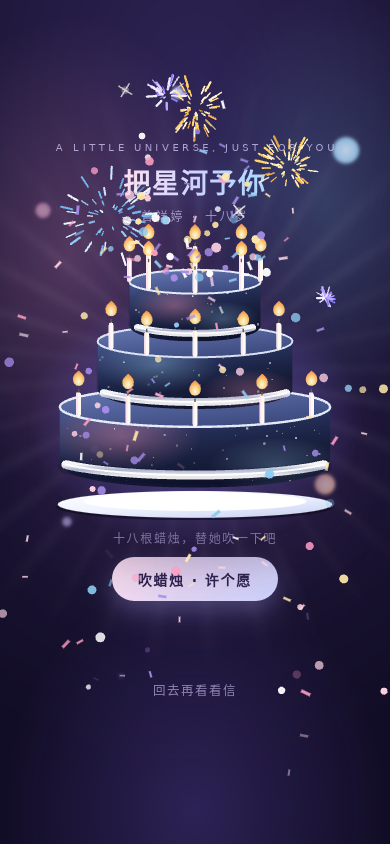
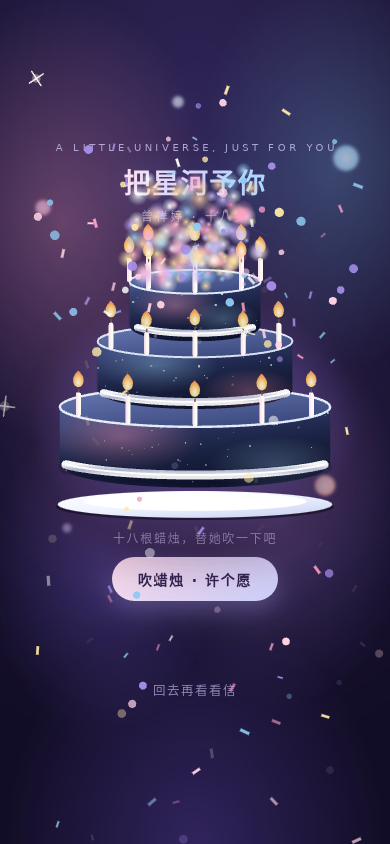
蛋糕页特效改为视频同款：光斑爆发+漂浮光斑+星点，去掉烟花/光芒

diff --git a/index.html b/index.html
@@ -71,9 +71,11 @@
   #cakeScene{z-index:3;background:radial-gradient(120% 80% at 50% 12%,#2e2456 0%,#1d1638 52%,#120d26 100%)}
   #cakeScene::before{content:"";position:absolute;inset:0;pointer-events:none;
     background:
-      radial-gradient(60% 40% at 18% 30%,rgba(255,158,196,.22),transparent 70%),
-      radial-gradient(50% 36% at 84% 24%,rgba(127,196,239,.20),transparent 70%),
-      radial-gradient(70% 40% at 50% 96%,rgba(140,110,255,.22),transparent 70%)}
+      radial-gradient(58% 38% at 16% 26%,rgba(255,158,196,.30),transparent 70%),
+      radial-gradient(52% 34% at 86% 20%,rgba(127,196,239,.26),transparent 70%),
+      radial-gradient(46% 30% at 72% 62%,rgba(180,140,255,.22),transparent 72%),
+      radial-gradient(40% 26% at 26% 68%,rgba(140,110,255,.26),transparent 72%),
+      radial-gradient(70% 40% at 50% 100%,rgba(120,90,220,.30),transparent 70%)}
   #cakeScene .inner{position:relative;z-index:1}
 
   /* ---------- 首屏 ---------- */
@@ -236,13 +238,6 @@
   .nb3{width:10px;height:10px;left:16%;top:62%;background:radial-gradient(circle,#efe6ff,#b8a6ff 62%,transparent 72%);animation:floaty 10s ease-in-out infinite .6s}
   .nb4{width:20px;height:20px;right:14%;top:58%;background:radial-gradient(circle,#ffe7d4,#ffb98a 62%,transparent 72%);animation:floaty 14s ease-in-out infinite 2s}
   .nb5{width:12px;height:12px;left:44%;top:12%;background:radial-gradient(circle,#ffffff,#cfe4ff 62%,transparent 72%);animation:floaty 11s ease-in-out infinite 1.6s}
-  .rays{position:absolute;left:50%;top:44%;width:min(160vw,760px);aspect-ratio:1;transform:translate(-50%,-50%);
-    background:repeating-conic-gradient(from 0deg at 50% 50%,rgba(255,235,246,.20) 0deg 2.2deg,rgba(255,255,255,0) 2.2deg 11deg);
-    filter:blur(3px);mix-blend-mode:screen;opacity:.38;pointer-events:none;
-    -webkit-mask-image:radial-gradient(circle,#000 0%,rgba(0,0,0,.65) 42%,transparent 68%);
-    mask-image:radial-gradient(circle,#000 0%,rgba(0,0,0,.65) 42%,transparent 68%);
-    animation:raysSpin 46s linear infinite}
-  @keyframes raysSpin{to{transform:translate(-50%,-50%) rotate(360deg)}}
   #cakeScene .cake-wrap{animation:cakeGlow 4.6s ease-in-out infinite}
   @keyframes cakeGlow{0%,100%{filter:drop-shadow(0 18px 30px rgba(120,90,255,.22))}50%{filter:drop-shadow(0 18px 42px rgba(255,150,210,.38))}}
   .shoot{position:absolute;width:110px;height:1.5px;border-radius:2px;pointer-events:none;
@@ -357,7 +352,6 @@
 
   <!-- ========== 三 · 星空蛋糕 ========== -->
   <section class="layer" id="cakeScene" aria-label="许愿蛋糕">
-    <span class="rays" aria-hidden="true"></span>
     <span class="shoot s1" aria-hidden="true"></span>
     <span class="shoot s2" aria-hidden="true"></span>
     <span class="night-bokeh nb1" aria-hidden="true"></span>
@@ -483,7 +477,7 @@
     ["#8fcbf2", "#cfe9ff", "#6fb6ee", "#eaf6ff"],
     ["#b8a6ff", "#e0d6ff", "#8b7bff", "#f3eeff"]
   ];
-  var BOKEH_COLORS = ["255,183,209", "169,216,245", "207,192,255", "255,233,168", "255,255,255"];
+  var BOKEH_COLORS = ["255,183,209", "169,216,245", "207,192,255", "255,233,168", "255,255,255", "255,214,170", "255,170,190"];
   var t0 = performance.now();
   var PETAL_COLORS = [
     "rgba(255,183,209,.95)", "rgba(255,211,227,.92)", "rgba(255,246,251,.95)",
@@ -522,7 +516,7 @@
     for (var i = 0; i < pn; i++) petals.push(makePetal(true));
     for (var j = 0; j < sn; j++) sparks.push(makeSpark(true));
     bokeh = [];
-    for (var b = 0; b < (reduce ? 6 : 16); b++) bokeh.push(makeBokeh(true));
+    for (var b = 0; b < (reduce ? 10 : 40); b++) bokeh.push(makeBokeh(true));
   }
   function drawPetal(p) {
     var sx = Math.cos(p.flip);
@@ -537,33 +531,40 @@
     ctx.fill();
     ctx.restore();
   }
+  var SPRITE = {};
+  function sprite(rgb) {
+    if (SPRITE[rgb]) return SPRITE[rgb];
+    var c = document.createElement("canvas");
+    c.width = c.height = 64;
+    var g = c.getContext("2d");
+    var grd = g.createRadialGradient(32, 32, 0, 32, 32, 32);
+    grd.addColorStop(0, "rgba(" + rgb + ",.95)");
+    grd.addColorStop(.42, "rgba(" + rgb + ",.5)");
+    grd.addColorStop(1, "rgba(" + rgb + ",0)");
+    g.fillStyle = grd;
+    g.beginPath(); g.arc(32, 32, 32, 0, 6.283); g.fill();
+    SPRITE[rgb] = c;
+    return c;
+  }
   function makeBokeh(initial) {
+    var big = Math.random() < .35;
     return {
-      x: rand(0, W), y: initial ? rand(0, H) : rand(H * .6, H),
-      r: rand(7, 30), vy: rand(-22, -6), vx: rand(-5, 5),
-      a: rand(.08, .26), c: BOKEH_COLORS[(Math.random() * BOKEH_COLORS.length) | 0]
+      x: rand(-30, W + 30), y: initial ? rand(0, H) : rand(H * .7, H + 40),
+      r: big ? rand(18, 46) : rand(5, 18),
+      vy: rand(-16, -4), vx: rand(-6, 6),
+      a: big ? rand(.10, .26) : rand(.18, .5),
+      c: BOKEH_COLORS[(Math.random() * BOKEH_COLORS.length) | 0]
     };
   }
   function bubbleBurst(cx, cy, n, power) {
-    var cols = ["255,183,209", "169,216,245", "207,192,255", "255,233,168", "255,255,255", "255,158,196"];
+    var cols = ["255,214,170", "255,233,168", "255,255,255", "255,183,209", "169,216,245", "207,192,255", "255,158,196"];
     for (var i = 0; i < n; i++) {
-      var a = -Math.PI / 2 + rand(-.95, .95), sp = rand(55, 180) * (power || 1);
+      var a = -Math.PI / 2 + rand(-1.1, 1.1), sp = rand(50, 190) * (power || 1);
       bubbles.push({
-        x: cx + rand(-34, 34), y: cy + rand(-10, 10),
-        vx: Math.cos(a) * sp * .5, vy: Math.sin(a) * sp,
-        r: rand(1.8, 6), c: cols[(Math.random() * cols.length) | 0],
-        life: rand(1.1, 2.2), total: 2.2
-      });
-    }
-  }
-  function firework(x, y, n, power) {
-    var pal = PAL[(Math.random() * PAL.length) | 0];
-    for (var i = 0; i < n; i++) {
-      var a = Math.random() * 6.283, sp = rand(50, 250) * (power || 1);
-      fwP.push({
-        x: x, y: y, px: x, py: y,
-        vx: Math.cos(a) * sp, vy: Math.sin(a) * sp - 30,
-        life: rand(.7, 1.5), c: pal[(Math.random() * pal.length) | 0], r: rand(1.1, 2.4)
+        x: cx + rand(-40, 40), y: cy + rand(-14, 14),
+        vx: Math.cos(a) * sp * .45, vy: Math.sin(a) * sp * .85,
+        r: rand(2.5, 13), c: cols[(Math.random() * cols.length) | 0],
+        life: rand(1.6, 3.2), total: 3.2
       });
     }
   }
@@ -580,17 +581,12 @@
     }
   }
   function drawBubble(b) {
-    var k = Math.max(0, Math.min(1, b.life / .9));
-    ctx.save();
-    ctx.globalAlpha = k * .7;
-    ctx.fillStyle = "rgba(" + b.c + ",.85)";
-    ctx.beginPath(); ctx.arc(b.x, b.y, b.r, 0, 6.283); ctx.fill();
-    ctx.globalAlpha = k * .22;
-    ctx.beginPath(); ctx.arc(b.x, b.y, b.r * 2.2, 0, 6.283); ctx.fill();
-    ctx.globalAlpha = k * .5;
-    ctx.fillStyle = "rgba(255,255,255,.9)";
-    ctx.beginPath(); ctx.arc(b.x - b.r * .3, b.y - b.r * .3, b.r * .32, 0, 6.283); ctx.fill();
-    ctx.restore();
+    var k = Math.max(0, Math.min(1, b.life / 1.1));
+    var sp = sprite(b.c), d = b.r * 2;
+    ctxTop.save();
+    ctxTop.globalAlpha = k * .9;
+    ctxTop.drawImage(sp, b.x - b.r, b.y - b.r, d, d);
+    ctxTop.restore();
   }
   function drawSpark(s, t) {
     var a = s.a * (.45 + .55 * Math.abs(Math.sin(t * s.tw + s.ph)));
@@ -613,12 +609,10 @@
           bk.y += bk.vy * dt; bk.x += bk.vx * dt;
           if (bk.y < -40) { bokeh[bi] = bk = makeBokeh(false); }
         }
+        var bs = sprite(bk.c), bd = bk.r * 2;
         ctx.save();
         ctx.globalAlpha = bk.a * night;
-        ctx.fillStyle = "rgba(" + bk.c + ",.9)";
-        ctx.beginPath(); ctx.arc(bk.x, bk.y, bk.r, 0, 6.283); ctx.fill();
-        ctx.globalAlpha = bk.a * night * .35;
-        ctx.beginPath(); ctx.arc(bk.x, bk.y, bk.r * 1.8, 0, 6.283); ctx.fill();
+        ctx.drawImage(bs, bk.x - bk.r, bk.y - bk.r, bd, bd);
         ctx.restore();
       }
     }
@@ -645,7 +639,6 @@
     }
     if (night > .05 && !reduce) {
       if (Math.random() < dt * .9) {
-        firework(rand(W * .12, W * .88), rand(H * .10, H * .42), 34, .9);
       }
       if (Math.random() < dt * 2.2) twinkle(rand(0, W), rand(H * .08, H * .55));
     }
@@ -993,10 +986,7 @@
       $("cakeHint").textContent = "十八岁，愿望会实现的";
       var r = $("cake").getBoundingClientRect();
       confetti(r.left + r.width / 2, r.top + r.height * .18, reduce ? 16 : 80);
-      bubbleBurst(r.left + r.width / 2, r.top + r.height * .18, reduce ? 18 : 90, 1.25);
-      firework(W * .24, H * .24, reduce ? 20 : 66, 1.15);
-      firework(W * .76, H * .19, reduce ? 20 : 66, 1.1);
-      setTimeout(function () { firework(W * .5, H * .12, reduce ? 18 : 58, 1); }, 320);
+      bubbleBurst(r.left + r.width / 2, r.top + r.height * .18, reduce ? 20 : 130, 1.3);
       goldRain(r.left + r.width / 2, r.top + r.height * .32, reduce ? 16 : 70);
       setTimeout(function () {
         confetti(r.left + r.width * .2, r.top + r.height * .26, reduce ? 10 : 34);
@@ -1027,10 +1017,7 @@
     setTimeout(function () {
       var r = c.getBoundingClientRect();
       confetti(r.left + r.width / 2, r.top + r.height * .2, reduce ? 10 : 36);
-      bubbleBurst(r.left + r.width / 2, r.top + r.height * .2, reduce ? 16 : 64, 1);
-      firework(W * .28, H * .26, reduce ? 20 : 60, 1.1);
-      setTimeout(function () { firework(W * .74, H * .2, reduce ? 18 : 56, 1.05); }, 420);
-      setTimeout(function () { firework(W * .5, H * .13, reduce ? 18 : 52, .95); }, 820);
+      bubbleBurst(r.left + r.width / 2, r.top + r.height * .2, reduce ? 18 : 110, 1.15);
       goldRain(r.left + r.width / 2, r.top + r.height * .3, reduce ? 12 : 40);
     }, 260);
     setTimeout(function () {
